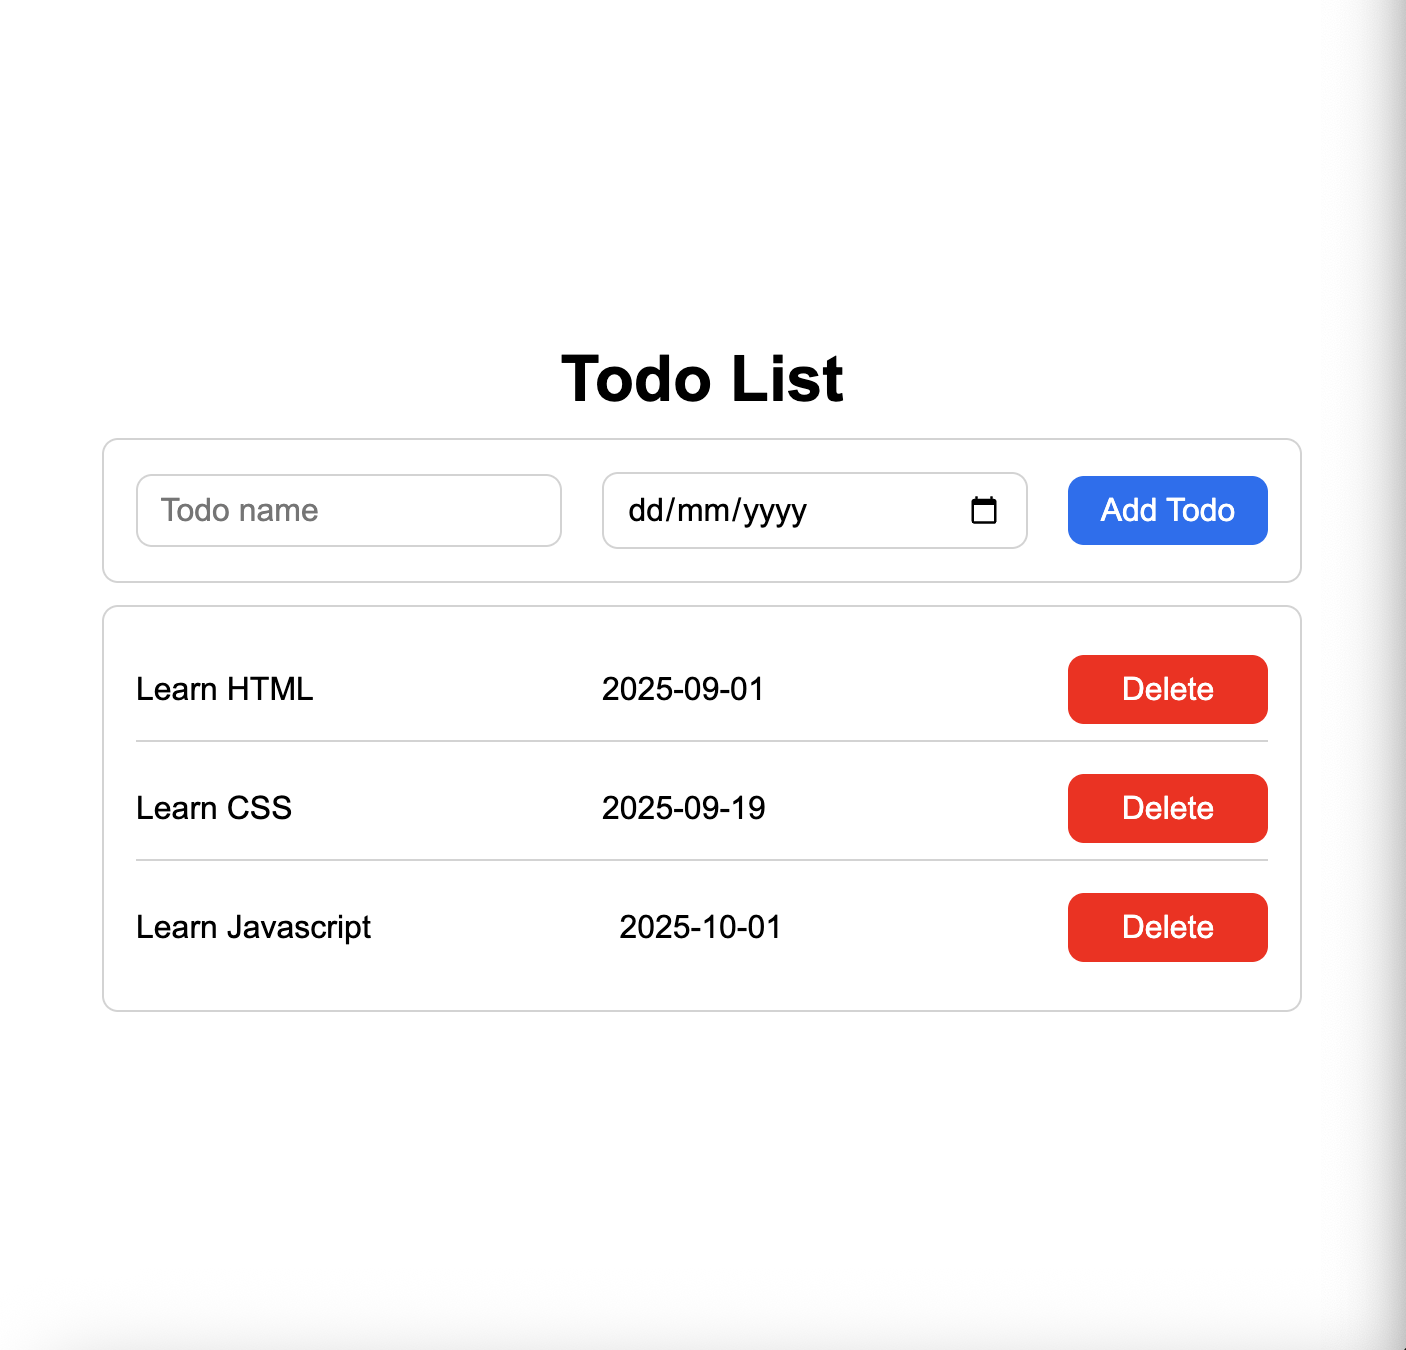
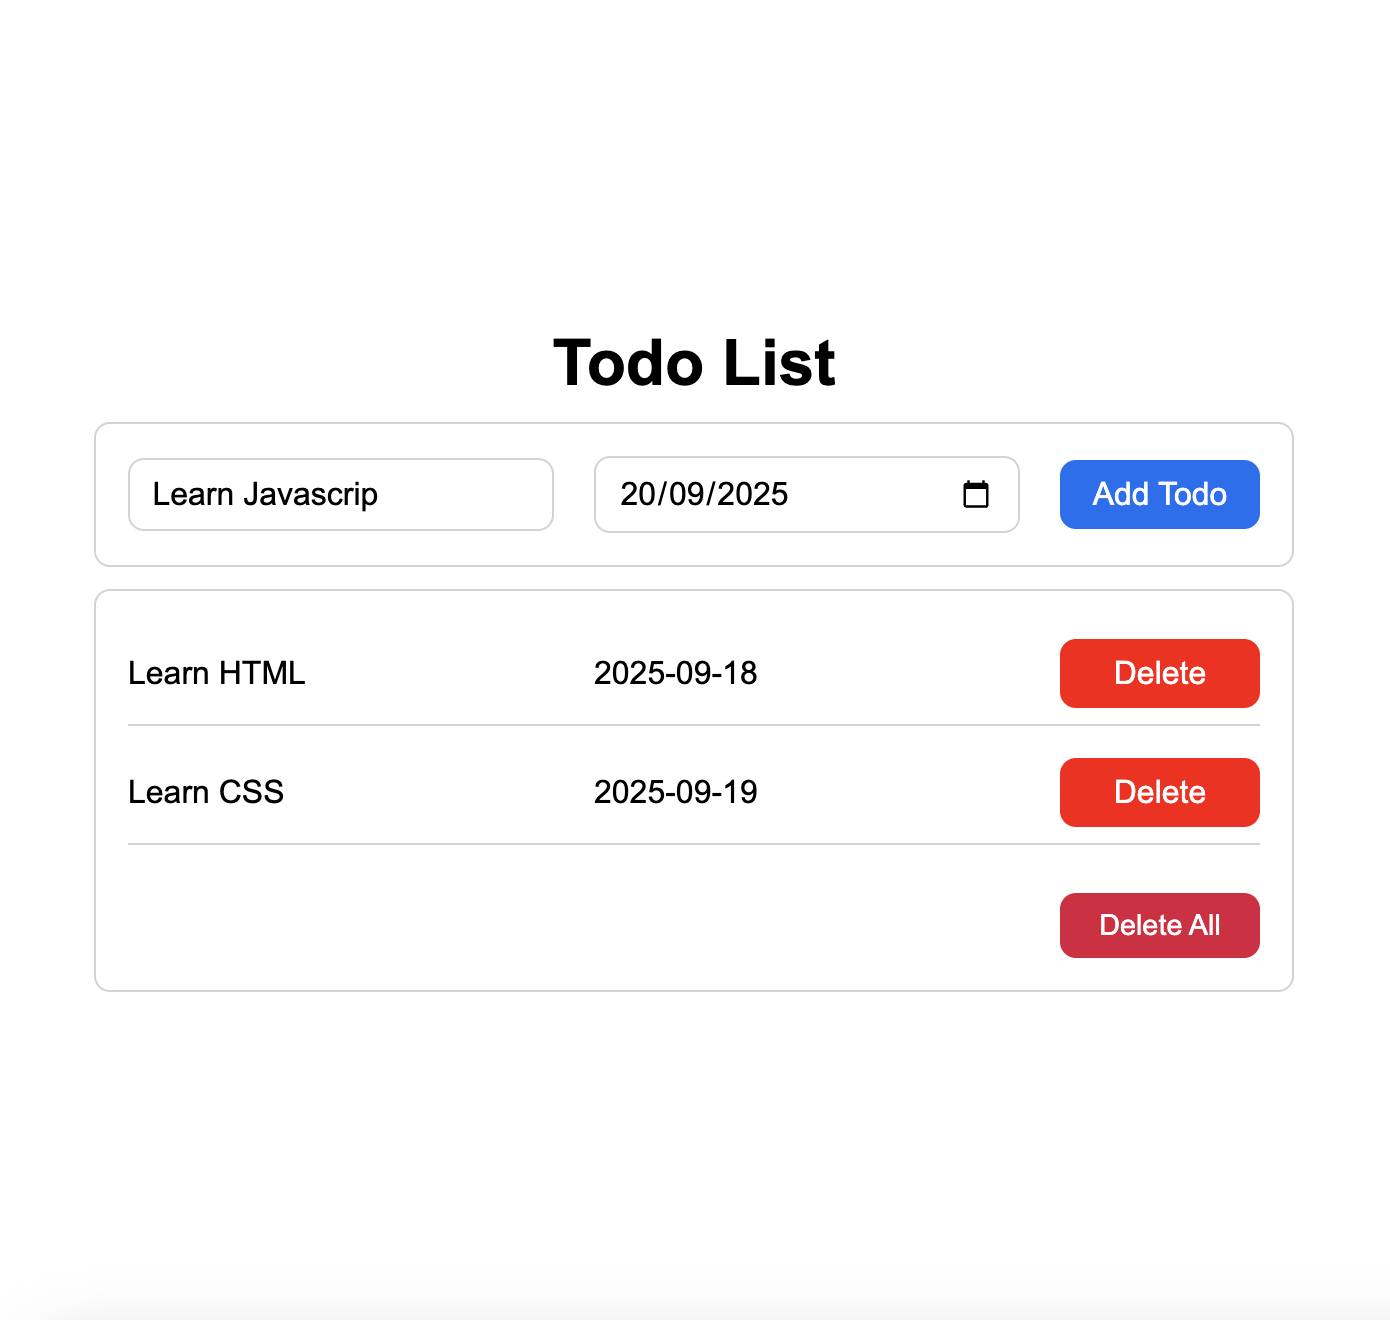
Delete all button

diff --git a/script.js b/script.js
@@ -1,6 +1,7 @@
-let todoList = JSON.parse(localStorage.getItem('todoList')) || [];
+let todoList = JSON.parse(localStorage.getItem("todoList")) || [];
 
 renderTodoList();
+updateAddButtonState();
 
 function renderTodoList() {
   let todoListHTML = "";
@@ -16,16 +17,41 @@ function renderTodoList() {
     todoListHTML += html;
   });
 
+  if (todoList.length > 0) {
+    todoListHTML += `<div class="delete-all-container">
+      <button class="js-delete-all delete-all-button">Delete All</button>
+    </div>`;
+  }
+
   document.querySelector(".js-todo-container").innerHTML = todoListHTML;
 
   document.querySelectorAll(".js-delete-button").forEach((button, index) => {
     button.addEventListener("click", () => {
       todoList.splice(index, 1);
-      localStorage.setItem('todoList', JSON.stringify(todoList));
+      localStorage.setItem("todoList", JSON.stringify(todoList));
       renderTodoList();
     });
   });
 }
+
+function updateAddButtonState() {
+  const nameInput = document.querySelector(".js-todo-input");
+  const dateInput = document.querySelector(".js-todo-date");
+  const addButton = document.querySelector(".js-add-todo");
+
+  if (nameInput.value.trim() === "" || dateInput.value === "") {
+    addButton.disabled = true;
+  } else {
+    addButton.disabled = false;
+  }
+}
+
+document
+  .querySelector(".js-todo-input")
+  .addEventListener("input", updateAddButtonState);
+document
+  .querySelector(".js-todo-date")
+  .addEventListener("input", updateAddButtonState);
 
 document.querySelector(".js-add-todo").addEventListener("click", () => {
   const name = document.querySelector(".js-todo-input").value;
@@ -38,6 +64,18 @@ document.querySelector(".js-add-todo").addEventListener("click", () => {
   document.querySelector(".js-todo-input").value = "";
   document.querySelector(".js-todo-date").value = "";
 
-  localStorage.setItem('todoList', JSON.stringify(todoList));
+  localStorage.setItem("todoList", JSON.stringify(todoList));
   renderTodoList();
+  updateAddButtonState();
+});
+
+document.querySelector(".js-delete-all").addEventListener("click", () => {
+  if (
+    todoList.length > 0 &&
+    confirm("Are you sure you want to delete all todos?")
+  ) {
+    todoList = [];
+    localStorage.setItem("todoList", JSON.stringify(todoList));
+    renderTodoList();
+  }
 });

diff --git a/style.css b/style.css
@@ -73,6 +73,12 @@ input {
   min-width: 100px;
 }
 
+.add-button:disabled {
+  background-color: grey;
+  cursor: not-allowed;
+  opacity: 0.6;
+}
+
 .delete-button {
   background-color: red;
   color: white;
@@ -88,4 +94,25 @@ input {
   font-size: 1rem;
   word-break: break-word;
   min-width: 100px;
+}
+
+.delete-all-container {
+  display: flex;
+  justify-content: flex-end;
+  margin-top: 1rem;
+}
+
+.delete-all-button {
+  background-color: #dc143c;
+  color: white;
+  border: none;
+  padding: 0.5rem 1rem;
+  border-radius: 0.5rem;
+  cursor: pointer;
+  font-size: 0.9rem;
+  min-width: 100px;
+}
+
+.delete-all-button:hover {
+  background-color: #b91c3c;
 }
